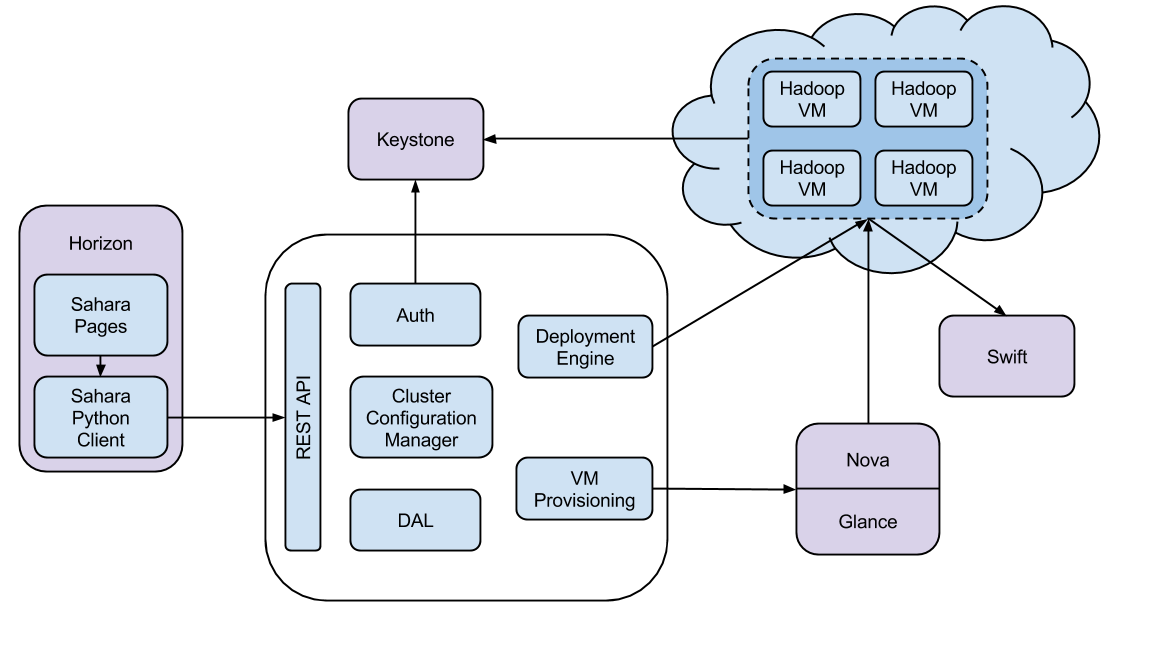
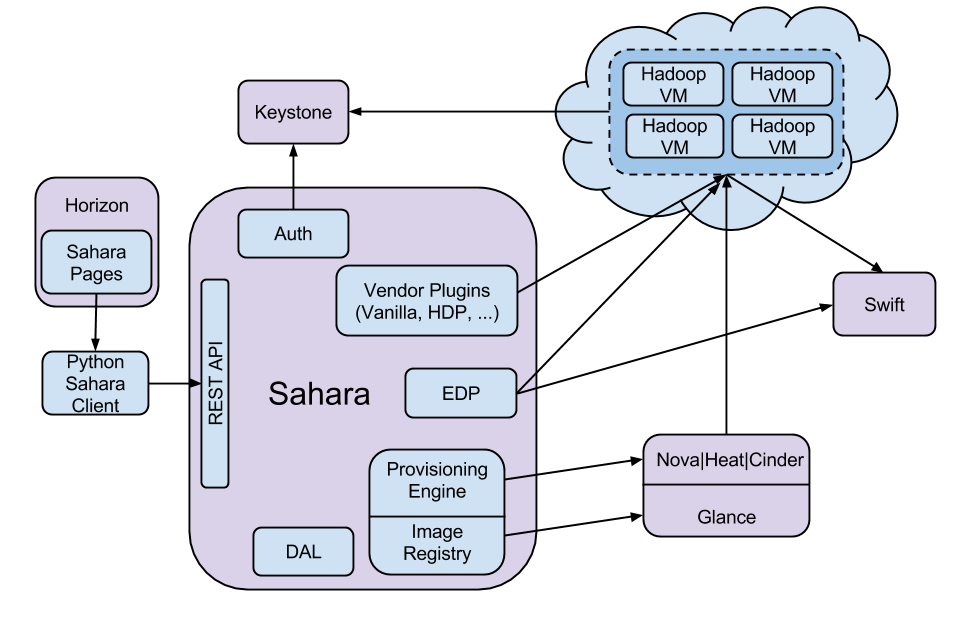
Updated architecture diagram in docs
* Sahara component now is colored like others integrated components
* Removed Cluster Configuration Manager as unrelated part of Sahara
* Added more services which Sahara can connect to (Heat, Cinder)
* Replaced Deployment Engine with Vendor Plugins
* Added EDP block
* Updated appropriate bullet points

(cherry picked from commit e681d1167ceb2878b4ccd95ea4ef3f0758c2e774)

diff --git a/doc/source/architecture.rst b/doc/source/architecture.rst
@@ -9,16 +9,16 @@ Architecture
 
 The Sahara architecture consists of several components:
 
-* Cluster Configuration Manager  - all the business logic resides here
-
-* Auth component - responsible for client authentication & authorization
+* Auth component - responsible for client authentication & authorization, communicates with Keystone
 
 * DAL - Data Access Layer, persists internal models in DB
 
-* VM Provisioning - component responsible for communication with Nova and Glance
+* Provisioning Engine - component responsible for communication with Nova, Heat, Cinder and Glance
 
-* Deployment Engine - pluggable mechanism responsible for deploying Hadoop on provisioned VMs;
+* Vendor Plugins - pluggable mechanism responsible for configuring and launching Hadoop on provisioned VMs;
   existing management solutions like Apache Ambari and Cloudera Management Console could be utilized for that matter
+
+* EDP - :doc:`../userdoc/edp` responsible for scheduling and managing Hadoop jobs on clusters provisioned by Sahara
 
 * REST API - exposes Sahara functionality via REST
 
